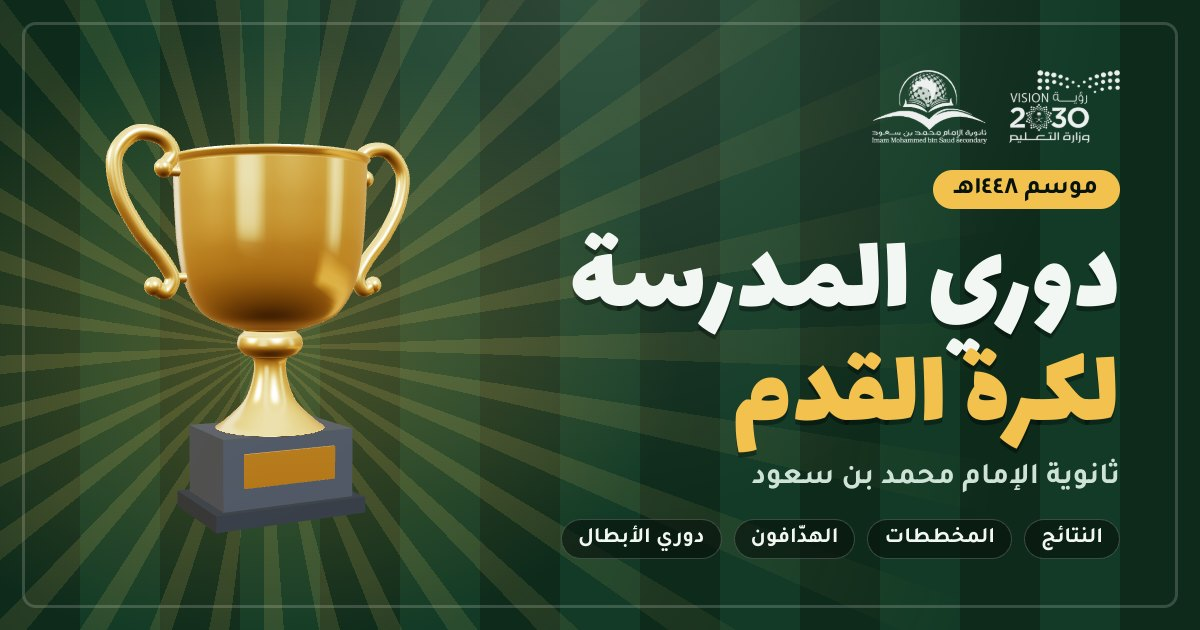
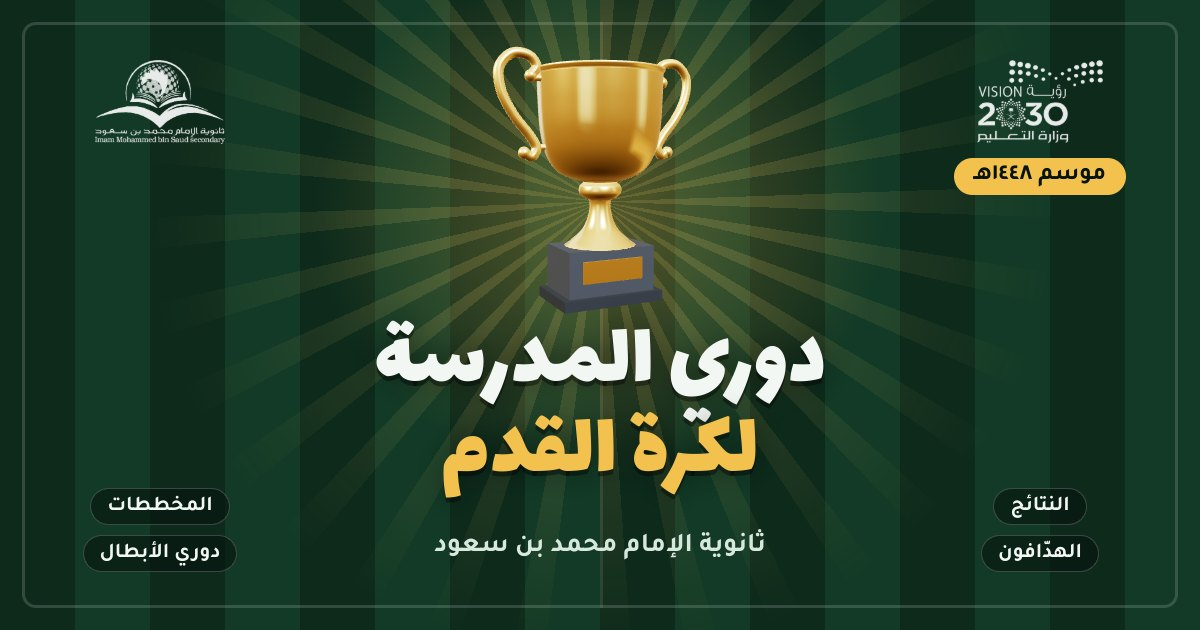
Add files via upload

diff --git a/index.html b/index.html
@@ -11,11 +11,11 @@
 <meta property="og:title" content="دوري المدرسة لكرة القدم">
 <meta property="og:description" content="نتائج ومخططات دوري ثانوية الإمام محمد بن سعود لكرة القدم: ثالث وثاني وأول ثانوي ودوري الأبطال، مع الهدّافين وأفضل لاعب.">
 <meta property="og:url" content="https://onais2007.github.io/school-league/">
-<meta property="og:image" content="https://onais2007.github.io/school-league/og.jpg">
+<meta property="og:image" content="https://onais2007.github.io/school-league/og.jpg?v=3">
 <meta property="og:image:width" content="1200">
 <meta property="og:image:height" content="630">
 <meta name="twitter:card" content="summary_large_image">
-<meta name="twitter:image" content="https://onais2007.github.io/school-league/og.jpg">
+<meta name="twitter:image" content="https://onais2007.github.io/school-league/og.jpg?v=3">
 
 <link rel="stylesheet" href="https://fonts.googleapis.com/css2?family=Lalezar&family=Tajawal:wght@400;500;700;900&display=swap">
 <style>
